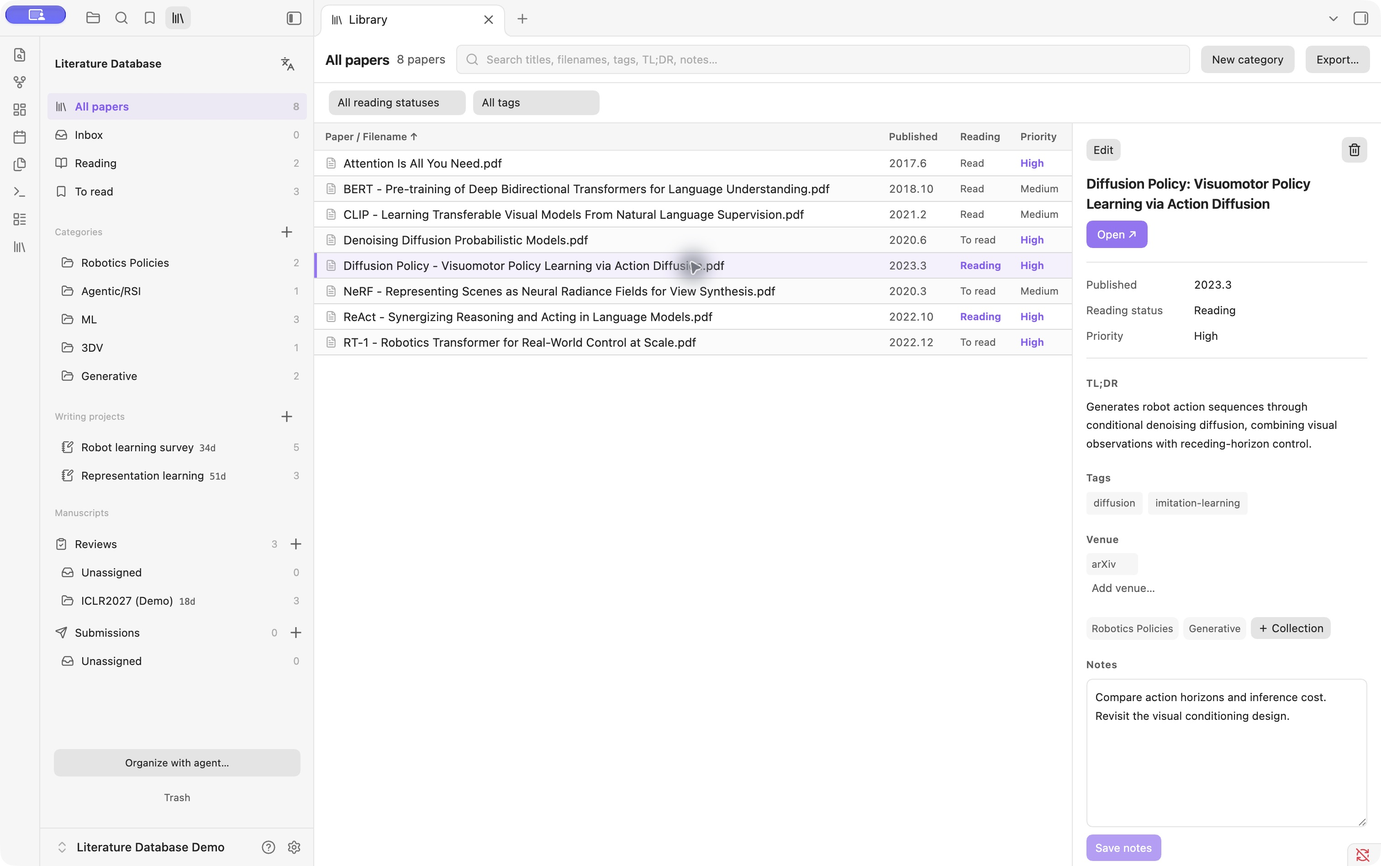
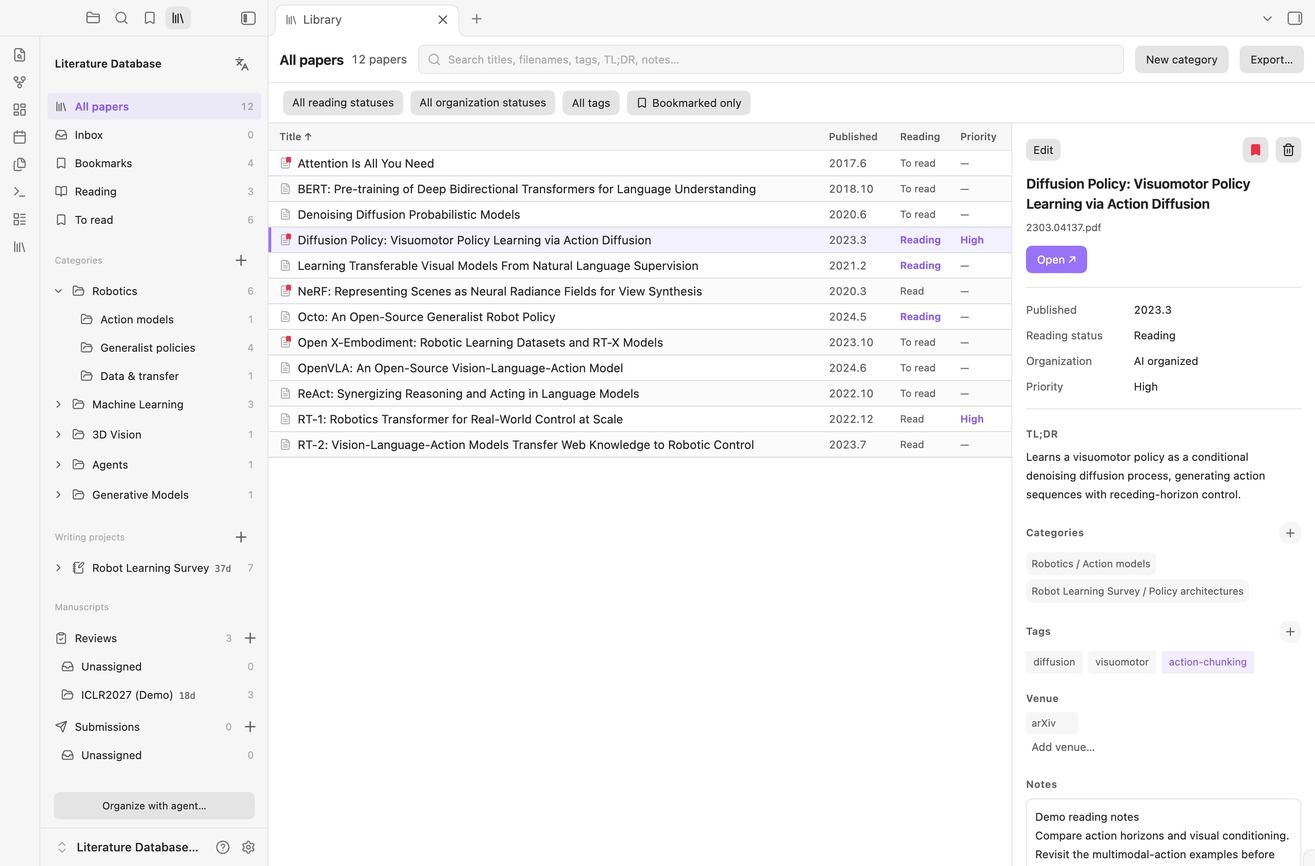
Release 4.8.0: tag maps, multi-tag filters and mobile polish

diff --git a/scripts/library-view.css b/scripts/library-view.css
@@ -284,11 +284,14 @@
 .ldb-mobile .ldb-filter-select { flex: 0 1 auto; max-width: 100%; height: 34px; font-size: 13px; }
 .ldb-mobile .ldb-filterbar .ldb-bookmark-filter { height: 34px; font-size: 13px; }
 .ldb-mobile .ldb-clear { height: 34px; }
-.ldb-mobile .ldb-body { gap: 0; padding: 0; grid-template-columns: minmax(0, 1fr) minmax(290px, 42%); }
+.ldb-mobile .ldb-body {
+  gap: 0; padding: 0; grid-template-columns: minmax(0, 58%) minmax(0, 42%);
+  grid-template-rows: minmax(0, 1fr); transition: grid-template-columns 240ms cubic-bezier(.2,.8,.2,1);
+}
 .ldb-mobile .ldb-list-pane, .ldb-browser.ldb-mobile .ldb-details {
   border: 0; border-radius: 0; background: var(--background-primary); box-shadow: none;
 }
-.ldb-mobile .ldb-list-pane { overflow: hidden; }
+.ldb-mobile .ldb-list-pane { overflow: hidden; transition: opacity 160ms ease, visibility 0s; }
 .ldb-browser.ldb-mobile .ldb-details { border-left: 3px solid var(--background-modifier-border); padding: 0 14px calc(14px + var(--view-bottom-spacing, 0px)); scroll-padding-top: 44px; }
 .ldb-browser.ldb-mobile button { border-radius: 5px; }
 .ldb-browser.ldb-mobile .ldb-detail-top :is(.ldb-edit-button,.ldb-bookmark-button,.ldb-delete-button) { background: transparent; box-shadow: none; }
@@ -312,9 +315,20 @@
 .ldb-mobile .ldb-notes-input { min-height: 112px; }
 .ldb-mobile .ldb-actions button { min-height: 36px; height: auto; }
 .ldb-mobile .ldb-memberships .ldb-tag, .ldb-mobile .ldb-venue-picker { min-height: 32px; height: auto; }
-.ldb-mobile.ldb-detail-expanded .ldb-body { grid-template-columns: minmax(0,1fr); grid-template-rows: minmax(0,1fr); }
-.ldb-mobile.ldb-detail-expanded .ldb-list-pane { display: none; }
+.ldb-mobile.ldb-detail-expanded .ldb-body { grid-template-columns: minmax(0,0%) minmax(0,100%); }
+.ldb-mobile.ldb-detail-expanded .ldb-list-pane {
+  opacity: 0; visibility: hidden; pointer-events: none; transition-delay: 0s, 240ms;
+}
 .ldb-mobile.ldb-detail-expanded .ldb-details { border: 0; }
+/* Mobile text-button padding must not distort fixed-size icons or column labels. */
+.ldb-browser.ldb-mobile :is(.ldb-bookmark-button,.ldb-delete-button) {
+  flex: 0 0 36px; width: 36px; height: 36px; min-width: 0; padding: 0;
+}
+.ldb-browser.ldb-mobile .ldb-columns button { padding: 0; }
+.ldb-mobile-navigation button.ldb-language-button { padding: 0; flex-shrink: 0; }
+.ldb-mobile-navigation button.ldb-nav-add { flex: 0 0 32px; width: 32px; height: 32px; min-width: 0; padding: 0; }
+.ldb-browser.ldb-mobile :is(.ldb-mobile-icon,.ldb-bookmark-button,.ldb-delete-button,.ldb-section-add) svg,
+.ldb-mobile-navigation .ldb-language-button svg { flex-shrink: 0; }
 .ldb-mobile-navigation .ldb-nav-item { min-height: 44px; font-size: 14px; }
 .ldb-mobile-navigation .ldb-tree-toggle {
   flex: 0 0 44px; width: 44px; height: 44px; margin: -5px 0 -5px -15px;
@@ -333,13 +347,8 @@
     grid-template-columns: minmax(0,1fr); grid-template-rows: minmax(120px,45%) minmax(160px,55%);
     transition: grid-template-rows 240ms cubic-bezier(.2,.8,.2,1);
   }
-  .ldb-mobile .ldb-list-pane { transition: opacity 160ms ease, visibility 0s; }
   /* Keep both tracks and the existing DOM so expansion can animate without losing drafts. */
-  .ldb-mobile.ldb-detail-expanded .ldb-body { grid-template-rows: minmax(0px,0%) minmax(160px,100%); }
-  .ldb-mobile.ldb-detail-expanded .ldb-list-pane {
-    display: flex; opacity: 0; visibility: hidden; pointer-events: none;
-    transition-delay: 0s, 240ms;
-  }
+  .ldb-mobile.ldb-detail-expanded .ldb-body { grid-template-columns: minmax(0,1fr); grid-template-rows: minmax(0px,0%) minmax(160px,100%); }
   .ldb-browser.ldb-mobile:not(.ldb-detail-expanded) .ldb-details { border-left: 0; border-top: 3px solid var(--background-modifier-border); }
   .ldb-mobile .ldb-columns, .ldb-mobile .ldb-row { grid-template-columns: minmax(0,1fr) 54px 48px; }
   .ldb-mobile .ldb-venue-view .ldb-columns, .ldb-mobile .ldb-venue-view .ldb-row,
@@ -413,6 +422,9 @@
 .is-mobile .ldb-tag-map-modal .modal-title { text-align: left; font-size: var(--font-ui-medium); }
 .is-mobile .ldb-tag-map-modal .modal-content { padding: 0; margin-top: 8px; }
 .is-mobile .ldb-tag-map-modal .ldb-map-node { min-height: 38px; }
+.is-mobile .ldb-tag-map-modal button.ldb-map-icon { padding: 0; box-sizing: border-box; flex-shrink: 0; }
+.is-mobile .ldb-tag-map-modal .ldb-map-icon svg { flex-shrink: 0; }
+.is-mobile .ldb-tag-map-modal button.ldb-map-node-label { padding: 0; min-height: 0; }
 .is-mobile .ldb-tag-map-modal .ldb-map-add { opacity: 1; pointer-events: auto; }
 
 /* Multi-tag filtering stays compact and does not change paper assignments. */
@@ -433,3 +445,5 @@
 .ldb-tag-filter-empty { padding: 12px 8px; font-size: var(--font-ui-small); color: var(--text-muted); }
 .ldb-mobile .ldb-filterbar .ldb-tag-filter { height: 34px; font-size: 13px; }
 .is-mobile .ldb-tag-filter-option { min-height: 40px; }
+.is-mobile .ldb-tag-filter-search button { padding: 4px; min-width: 0; }
+.is-mobile .ldb-tag-filter-search button svg { flex-shrink: 0; }

diff --git a/README.md b/README.md
@@ -12,11 +12,13 @@ A compact, Zotero-style literature manager for Obsidian, by **shengzhegan**. Bro
 
 *Real screenshots from a separate demo vault, using the English interface. Public papers are paired with example notes, projects and review tasks; no private library or confidential manuscripts are shown. Click any image to view it at full size.*
 
-**Status:** **4.7.0**. [View the Community listing](https://community.obsidian.md/plugins/paper-reservoir-dashboard); new releases may take time to reach the in-app directory. Requires **Obsidian 1.8.7+**. Mobile support is enabled for iPhone/iPad with a compact touch layout and Files picker. Validated with Obsidian 1.14.4 mobile emulation and a runtime test that rejects Node/Electron imports; physical iOS/Android devices have not yet been tested. Desktop behavior is preserved. Windows/Linux GUI behavior has not been validated; Finder drag/paste requires macOS. The interface supports English and Chinese, following the Obsidian language by default. Screenshots below show the 4.3.0 demo UI; the screenshots predate the title/provenance improvements in 4.4.0.
+**Status:** **4.8.0**. [View the Community listing](https://community.obsidian.md/plugins/paper-reservoir-dashboard); new releases may take time to reach the in-app directory. Requires **Obsidian 1.8.7+**. Mobile support is enabled for iPhone/iPad with a compact touch layout and Files picker. Validated with Obsidian 1.14.4 mobile emulation and a runtime test that rejects Node/Electron imports; physical iOS/Android devices have not yet been tested. Desktop behavior is preserved. Windows/Linux GUI behavior has not been validated; Finder drag/paste requires macOS. The interface supports English and Chinese, following the Obsidian language by default. Screenshots show the 4.8.0 interface in an isolated English demo vault.
 
 ## Features
 
-**New in 4.7.0:** Create one level of subcategories inside categories and writing projects. Each paper appears once per parent, independently of its tags. Drag papers or PDFs into a child section, scroll the middle list while dragging, and see newly imported papers selected and brought into view. Sidebar expansion animates gently; empty **Ungrouped** entries stay hidden.
+**New in 4.8.0:** Build and select tags in an editable, two-sided mind map. Combine several tag filters with **OR** semantics, bookmark papers from the right-click menu, and use larger mobile disclosure targets. Mobile icon buttons retain their intended shape; iPad details now expand smoothly as well as phone details.
+
+**4.7.0:** Create one level of subcategories inside categories and writing projects. Each paper appears once per parent, independently of its tags. Drag papers or PDFs into a child section, scroll the middle list while dragging, and see newly imported papers selected and brought into view. Sidebar expansion animates gently; empty **Ungrouped** entries stay hidden.
 
 **4.6.1:** Filter bookmarked papers within the current category or writing project with **Bookmarked only**. Combine it with search, reading status, organization status and tags. Filter controls fit their selected labels and keep a consistent height.
 
@@ -32,8 +34,18 @@ A compact, Zotero-style literature manager for Obsidian, by **shengzhegan**. Bro
 
 - **One row per paper.** Browse categories on the left, scan paper titles in the middle, and read the confirmed title, TL;DR, tags, venues and notes on the right.
 - **Edit in place.** Change reading status, organization status and priority directly in the details pane. Save notes while staying on the same paper.
-- **Find papers quickly.** Search titles, filenames, tags, TL;DR and notes; filter by reading status, organization status or tag, and sort the list.
+- **Find papers quickly.** Search titles, filenames, tags, TL;DR and notes; filter by reading status, organization status or several tags, and sort the list. Selected tags match **any** chosen tag, without duplicating papers.
 - **Keep your PDF reader.** **Open ↗** uses the system's default application. Skim is optional; the plugin does not embed a second desktop PDF viewer.
+
+### Build your tag vocabulary visually
+
+![Two-sided tag mind map with inline branch creation and per-paper checkboxes](docs/screenshots/tag-map.jpg)
+
+Click the circular **+** beside **Tags** in the details pane. Each branch has its own **+**: type a group, tag or child tag in place, then press Enter. Creating a tag adds it to the vocabulary; check its box to assign it to the selected paper. Parent and child tags are independent, and the common `research/` prefix stays hidden in the interface.
+
+Pan, zoom, search or fold branches to navigate a growing vocabulary. Groups spread to both sides of the root and keep their side while the map is open. Human-added tags retain the accent color, while AI/unknown tags remain neutral. Assignments preserve the selected paper and unsaved Notes. The optional `tags.md` stores only vocabulary and visual groups; each paper's tags remain in `library.md`.
+
+Use **All tags** above the list to select multiple tags, with search and clear controls. The filter matches any selected exact tag (OR); choosing a parent does not implicitly include its children. Right-click one or several public papers to add or remove bookmarks.
 
 ### Gather references for each writing project
 
@@ -64,7 +76,7 @@ Citation recognition uses PDF evidence and verified Crossref/arXiv lookups. Form
 
 ### Track reviews and submissions by venue
 
-![ICLR2027 demo review tracker with To review, Reviewing and Completed in the native status menu](docs/screenshots/review-tracker.jpg)
+![ICLR2027 demo review tracker with a shared deadline and an inline review status control](docs/screenshots/review-tracker.jpg)
 
 Keep review tasks and your own submissions in separate trackers. Drop PDFs into a venue or its unassigned area, drag tasks between venues, and change review status directly in the right pane: **To review → Reviewing → Completed**. Each venue has one deadline, a time-zone selector and a countdown. Deleting a venue returns its papers to the unassigned area.
 

diff --git a/docs/screenshots/README.md b/docs/screenshots/README.md
@@ -1,15 +1,16 @@
 # Screenshot provenance
 
-Captured on 2026-10-13 with Literature Database **4.3.0**, Obsidian **1.14.4** on macOS, the default light theme and the plugin's English interface. These are unretouched application-window captures from a separate **Literature Database Demo** vault, not UI mockups. Click/remote-control indicators may be visible in the captures.
+Captured on 2026-10-14 with Literature Database **4.8.0**, Obsidian **1.14.4** on macOS, the default light theme and the plugin's English interface. These are application captures from a separate **Literature Database Demo 4.8.0** vault, not UI mockups. Captured with the official Obsidian CLI (`dev:screenshot`), without Computer Use, cursor overlays or operating-system window borders. PNG captures were converted to JPEG for the README; the interface was not retouched.
 
 | Image | Demonstrates |
 | --- | --- |
-| `library-overview.jpg` | Compact three-pane library, search, reading status, priority, tags, venue labels and personal notes |
-| `writing-project.jpg` | Project reference collections, AoE deadline/countdown and project-specific notes |
+| `library-overview.jpg` | Title-based compact library, bookmarks, subcategories, organization provenance and circular section actions |
+| `tag-map.jpg` | Two-sided tag map, inline branch creation, independent checkboxes and human/AI tag colors |
+| `writing-project.jpg` | Grouped project references, AoE deadline/countdown and project-specific notes |
 | `citation-export.jpg` | Actual IEEE export preview generated by the bundled citation formatter |
-| `review-tracker.jpg` | Fictional review assignments, venue deadline and native inline status selector |
+| `review-tracker.jpg` | Fictional review assignments, venue deadline and inline status selector |
 
-No personal vault tables, private notes, workspace settings, confidential review/submission manuscripts or PDFs are included in this repository. Notes, memberships, priorities, reading states and writing projects were created for the demonstration. **ICLR2027 (Demo)** contains previously published papers used as fictional review tasks. Its deadline is illustrative, not an official conference date or a real assignment.
+No personal vault tables, private notes, workspace settings, confidential review/submission manuscripts or PDFs are included in this repository. Notes, tag groups, memberships, priorities, reading states and writing projects were created for the demonstration. **ICLR2027 (Demo)** contains previously published papers used as fictional review tasks. Its deadline is illustrative, not an official conference date or a real assignment.
 
 Paper titles and bibliographic fields were read from the following public arXiv records on the capture date. The plugin's `citation-metadata.js` parser and bundled citation engine converted the official metadata into bibliography entries; no author, publication date or citation was supplied from model memory. The examples cite the arXiv versions rather than claiming a later conference publication.
 
@@ -21,5 +22,9 @@ Paper titles and bibliographic fields were read from the following public arXiv 
 - [Denoising Diffusion Probabilistic Models](https://arxiv.org/abs/2006.11239)
 - [CLIP](https://arxiv.org/abs/2103.00020)
 - [RT-1](https://arxiv.org/abs/2212.06817)
+- [RT-2](https://arxiv.org/abs/2307.15818)
+- [OpenVLA](https://arxiv.org/abs/2406.09246)
+- [Open X-Embodiment](https://arxiv.org/abs/2310.08864)
+- [Octo](https://arxiv.org/abs/2405.12213)
 
 For future captures, build the plugin from the source version being documented, install it in an isolated vault using the empty templates, and use only public papers and explicitly fictional task data. Confirm the demo vault title before every screenshot. Do not copy or sanitize a personal vault to create a demo. Only commit reviewed screenshot assets and documentation, never the demo PDFs or local Obsidian settings.

diff --git a/docs/release-notes.md b/docs/release-notes.md
@@ -1,12 +1,13 @@
-Organize categories and writing projects with subcategories, and keep newly imported papers easy to find.
+Build your tag vocabulary visually and filter papers with several tags at once.
 
-- Create one level of subcategories with inline naming, drag ordering and separate placements in each parent. Parent lists group papers once by subcategory; tags remain independent filters.
-- Move papers between children of the same parent or add them to a child in another collection. Removing a subcategory returns its papers to Ungrouped, preserving PDFs, annotations, memberships and project notes. Existing parent-level trash safeguards remain in place.
-- Import PDFs directly into child sections. The middle list supports edge, wheel and trackpad scrolling during a drag, with the purple destination following the pointer. Empty named children remain usable drop targets.
-- Select successfully imported papers and bring the first one into view, clearing filters that would hide the result. Metadata-driven title sorting keeps an already visible selection in view without pulling back a user who has scrolled away.
-- Animate sidebar expansion/collapse without recreating unrelated controls. Hide Ungrouped in the sidebar when it has no live papers; show it when papers return. Respect reduced motion and protect active inline edits.
-- Order paper details as TL;DR, Categories, Tags, Venue and Notes, with project notes in the Notes area.
+- Open the two-sided tag map from the circular **+** beside Tags. Create groups, tags and child tags inline; check a box to assign a tag to the current paper. Search, fold, pan and zoom without losing Notes or changing the selected paper.
+- Store an optional tag vocabulary in `tags.md`, with backups and conflict checks. Paper assignments and human/AI provenance stay in the canonical library row; opening the map does not create files.
+- Select multiple tag filters with **OR** semantics. Keep the searchable checkbox menu open while choosing, clear selections, and combine tags with the existing filters.
+- Add or remove bookmarks from the paper context menu, including multi-selection, with one guarded batch write and no unrelated control flicker.
+- Use larger 44×44 mobile disclosure targets. Fix stretched tag-map, bookmark, delete and sidebar icon buttons caused by mobile text-button padding.
+- Animate iPad detail expansion in the side-by-side layout, retain phone transitions and preserve unsaved Notes during rapid reversals. Keep Obsidian's native mobile sidebar and respect reduced motion.
+- Update all README screenshots and add the tag map, captured through the Obsidian CLI in an isolated English demo vault with public papers and fictional review tasks.
 
-Requires Obsidian 1.8.7+. Existing libraries remain readable; the optional subcategory column is added only to a collection table when placement is explicitly changed. Existing papers are not automatically classified. PDF filenames, citations and personal notes are preserved; review/submission organization is unchanged.
+Requires Obsidian 1.8.7+. Existing libraries remain readable. PDF filenames, citations, private manuscripts and personal notes are preserved. No scheduled agent, telemetry or full-library metadata scan is added.
 
-Validated with 33 synthetic regression suites on macOS and desktop application checks using synthetic data. Release CI also runs on Linux (skipping the two macOS-specific suites) and verifies the locked dependency build. Physical mobile devices and Windows/Linux GUI behavior are not part of this validation.
+Validated with 37 synthetic regression suites on macOS and desktop, tablet and phone emulator checks using a separate demo vault. Release CI also runs on Linux (skipping the two macOS-specific suites) and verifies the locked dependency build. Physical mobile devices and Windows/Linux GUI behavior are not part of this validation.

diff --git a/docs/community-release.md b/docs/community-release.md
@@ -1,6 +1,6 @@
 # Community releases
 
-The [Community listing](https://community.obsidian.md/plugins/paper-reservoir-dashboard) was published on **2026-10-13**. The initial submission checklist covered **4.3.1**; the current release is **4.7.0**. New releases are reviewed separately and may take time to propagate to the app directory.
+The [Community listing](https://community.obsidian.md/plugins/paper-reservoir-dashboard) was published on **2026-10-13**. The initial submission checklist covered **4.3.1**; the current release is **4.8.0**. New releases are reviewed separately and may take time to propagate to the app directory.
 
 ## Repository and distribution
 
@@ -10,7 +10,7 @@ The [Community listing](https://community.obsidian.md/plugins/paper-reservoir-da
 | Root `README.md`, `LICENSE`, `manifest.json` | Present; usage, installation, screenshots, data access and platform limits documented |
 | Plugin identity | `paper-reservoir-dashboard`, displayed as Literature Database, author shengzhegan; retain the installed ID for upgrade compatibility |
 | Community entry | Published as `paper-reservoir-dashboard`; retain this ID across updates |
-| Version metadata | Manifest, package and version map agree on `4.7.0`; release tag must be exactly `4.7.0`, without `v` |
+| Version metadata | Manifest, package and version map agree on `4.8.0`; release tag must be exactly `4.8.0`, without `v` |
 | Description | Short action statement, under 250 characters, ending with a period |
 | Minimum app | `1.8.7` for the public `getLanguage()` API; native menus and deferred views also use public APIs available by this version |
 | Mobile declaration | `isDesktopOnly: false`; mobile paths use browser/vault APIs and are tested with Node/Electron imports forbidden |
@@ -35,7 +35,7 @@ The first release is [4.3.1](https://github.com/Lgx521/Literature_Database_Obsid
 
 ## Validation and limits
 
-- **33 synthetic regression suites pass on macOS**, including first-run defaults, initialization races, existing-file preservation, legacy migration, concurrent source edits, citation evidence, deletion scope, trash, deadlines and inline controls.
+- **37 synthetic regression suites pass on macOS**, including first-run defaults, initialization races, existing-file preservation, legacy migration, concurrent source edits, citation evidence, deletion scope, trash, deadlines and inline controls.
 - macOS application smoke checks use a separate temporary vault: plugin enable/disable, settings, explicit creation and library opening. No personal vault is used for testing.
 - The locked dependency audit reports **0 known vulnerabilities** as of the check date. This is not a guarantee that the software is vulnerability-free.
 - Release CI tests macOS and Linux, compares the rebuilt dependency bundle and validates version/asset consistency before publishing. Linux skips the two macOS Finder/clipboard suites; this does not establish Linux GUI compatibility.

diff --git a/docs/development.md b/docs/development.md
@@ -1,6 +1,6 @@
 # Development
 
-This repository contains the plugin source and synthetic tests, with no personal library data. The first version-controlled baseline was 4.2.3; the current release is 4.7.0.
+This repository contains the plugin source and synthetic tests, with no personal library data. The first version-controlled baseline was 4.2.3; the current release is 4.8.0.
 
 ## Build and test
 
@@ -61,3 +61,10 @@ Run `npm run release:check` after building. It validates the manifest and distri
 4.4.0 adds `整理状态` and `整理来源` as columns 12–13. Migration is lazy and preserves old cells and hand-written prose. The source checkout's actor-aware helper computes SHA-256 field/tag fingerprints; external changes invalidate attribution. Unknown history stays unknown. Tests cover manual completion locks, forbidden agent citation edits, protected human fields, original names, nested collisions, paired import rollback and restoration. See `templates/empty-vault/AGENTS.md` for the complete agent contract.
 
 Mobile changes are isolated behind `Platform.isMobile` and `.ldb-mobile` CSS. Keep desktop layout/interactions frozen unless explicitly requested. `scripts/sha256.js` preserves the existing provenance fingerprints without Node; `scripts/mobile-import.js` reads user-selected browser Files through the vault API. `test-mobile.cjs` rejects every external require except obsidian and covers edits, automatic metadata, citation exports, import failures/collisions, PDF open and trash/restore. Validate mobile layouts with Obsidian's official emulator; record physical-device validation separately.
+
+
+## Mobile layout and screenshot checks
+
+The tag-map and fixed-size icon controls explicitly override Obsidian's mobile text-button padding; do not apply a global button reset. Keep SVG aspect ratios intact. The native mobile sidebar remains owned by Obsidian. Tablet detail expansion animates two grid columns; narrow screens animate two rows. Keep both tracks and the same DOM, make the hidden list inert, preserve Notes/selection and support reduced motion and rapid reversals.
+
+For documentation, create an isolated English demo vault with the built version, public paper metadata and explicitly fictional task data. Use Obsidian CLI `dev:screenshot` to capture the real application without Computer Use overlays. Wait for layout/animations to settle and dismiss tooltips before capture. Review each image for private content and stale UI. Record version, data sources and capture method in [screenshot provenance](screenshots/README.md); never commit the demo vault or PDFs.

diff --git a/AGENTS.md b/AGENTS.md
@@ -46,7 +46,7 @@ Intake reveals and selects successful PDF paths (tracker rows resolve by PDF pat
 
 Sidebar child expansion uses a short grid-height/opacity transition and rotates the existing chevron. Retain child DOM and unrelated controls; do not rerender or navigate on fold. Collapsed children are inert and hidden from accessibility, with focus returned to the toggle if needed. Preserve collapsed workspace state, guard inline rename/group drag, and respect reduced motion.
 
-## Tag map (local preview)
+## Tag map (4.8.0)
 
 `tags.md` is an optional vocabulary and visual-group catalog, not a second paper database. It contains only `## Group: <name>` headings and `- #canonical/tag` lines between `<!-- literature-tags:start -->` and `<!-- literature-tags:end -->`. Opening the map does not create it. The first explicit vocabulary edit or paper checkbox action saves it through the vault API; existing edits use the normal backup and exact-text concurrency guard. Preserve surrounding prose and reject malformed files, collisions, duplicate names, and families split across groups.
 
@@ -55,3 +55,5 @@ Groups are visual only. Hide the shared `research/` prefix in the UI but preserv
 Tag filters store a `tags` array in workspace view state, with OR/union semantics (any selected exact tag, case-insensitive). Migrate legacy single `tag` state on read. Keep the searchable checkbox popover open across toggles, preserve its focus/scroll, and retain selected tags absent from the latest vocabulary so users can clear them. Filtering must never write library.md or tags.md. Notes/edit guards, clear-all, mobile filter indicators, navigation and import reveal resets must include the whole array.
 
 The tag map balances full groups left/right around its root, retaining each group’s side during the open session. Folding, inline creation, search and paper checkboxes must work on both sides without changing canonical tags or metadata. Context-menu bookmarks are public-paper actions; mixed selections add bookmarks to all, fully marked selections remove them. Batch writes validate every captured row before a single guarded mutation; preserve other metadata and keep existing controls mounted.
+
+Mobile fixed-size icon controls must override Obsidian text-button padding within plugin scope; keep SVG aspect ratios intact. Preserve the native tablet drawer. Both tablet column expansion and phone row expansion retain the existing list/detail DOM, Notes, selection and inert state; respect reduced motion and rapid reversals.

diff --git a/CHANGELOG.md b/CHANGELOG.md
@@ -1,5 +1,15 @@
 # Changelog
 
+## 4.8.0 — 2026-10-14
+
+- Add a two-sided editable tag map with inline group/tag/child creation, independent checkboxes, search, folding, pan and zoom. Keep paper assignments and provenance in the canonical library row.
+- Store optional vocabulary and visual groups in tags.md, with backups and conflict guards; opening the map does not create a file.
+- Support multiple exact tag filters with OR semantics, a stable searchable checkbox menu and migration from legacy single-tag view state.
+- Add single and batch bookmark actions to paper context menus, preserving Notes and unrelated controls.
+- Enlarge mobile category/project disclosure targets to 44×44 without changing desktop targets.
+- Prevent mobile text-button padding from stretching tag-map and other icon controls; add smooth tablet detail expansion, preserve phone transitions and respect reduced motion. Retain the native Obsidian mobile sidebar.
+- Refresh README screenshots from an isolated English demo vault using the Obsidian CLI.
+
 ## 4.7.0 — 2026-10-14
 
 - Add one level of subcategories to categories and writing projects, with inline create/rename, drag ordering, per-parent paper placement and grouped lists without duplicate rows.
